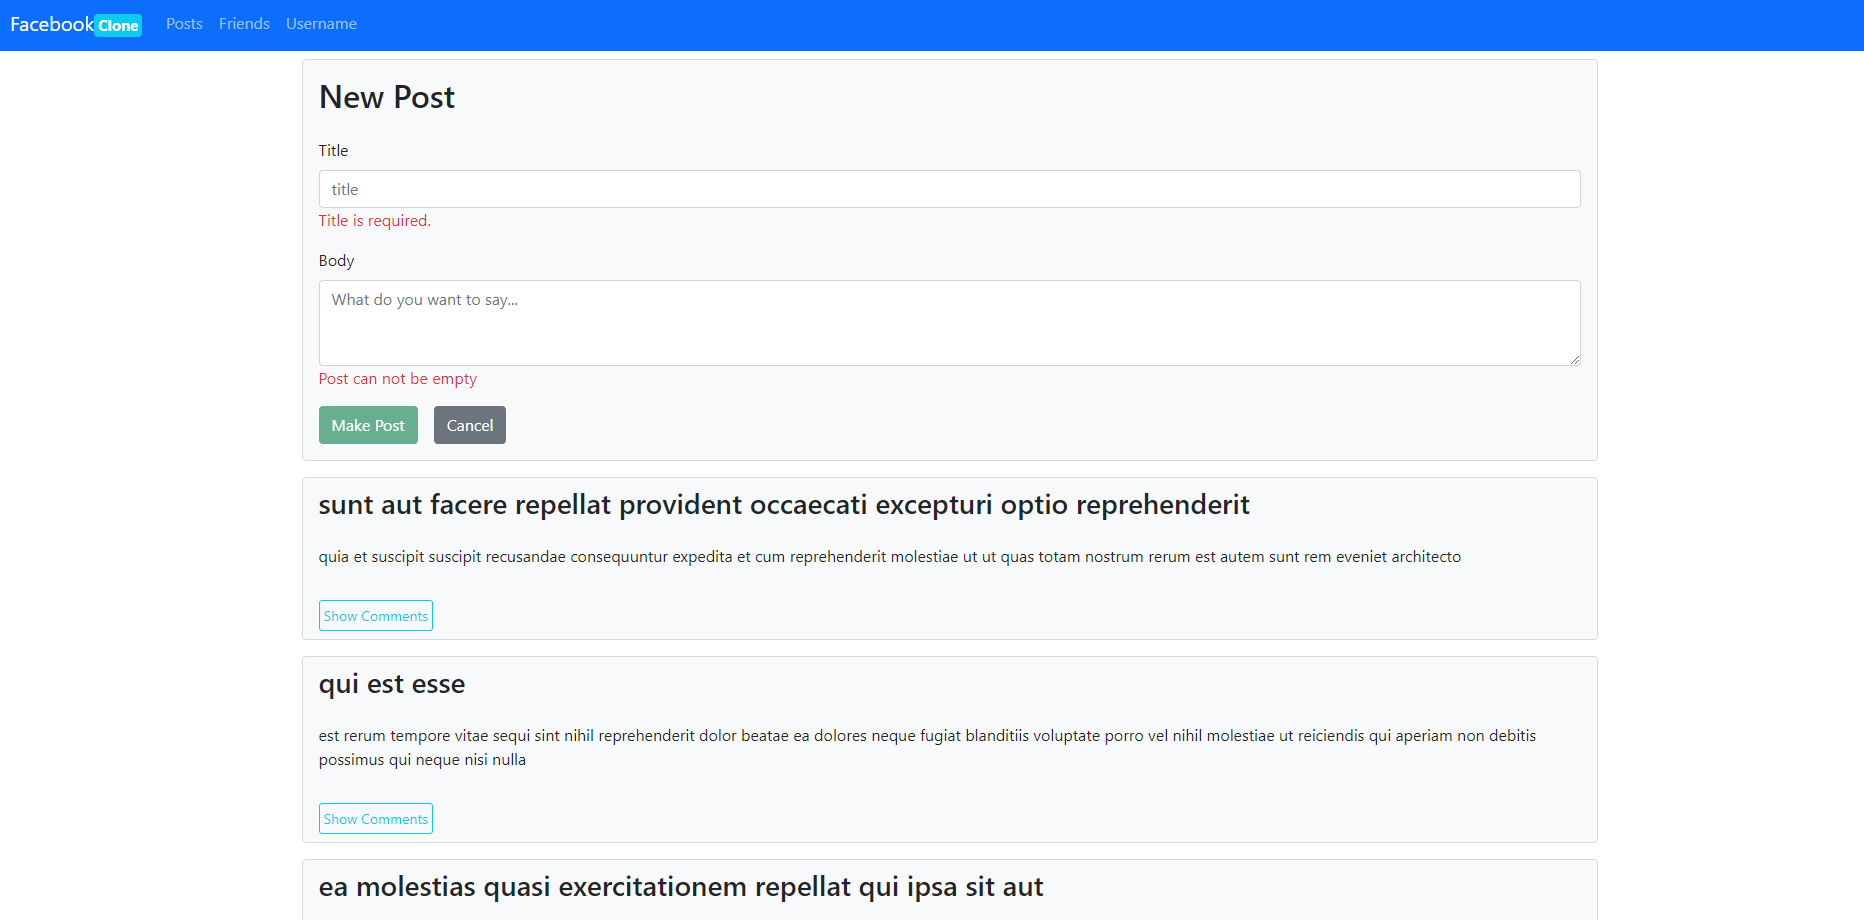
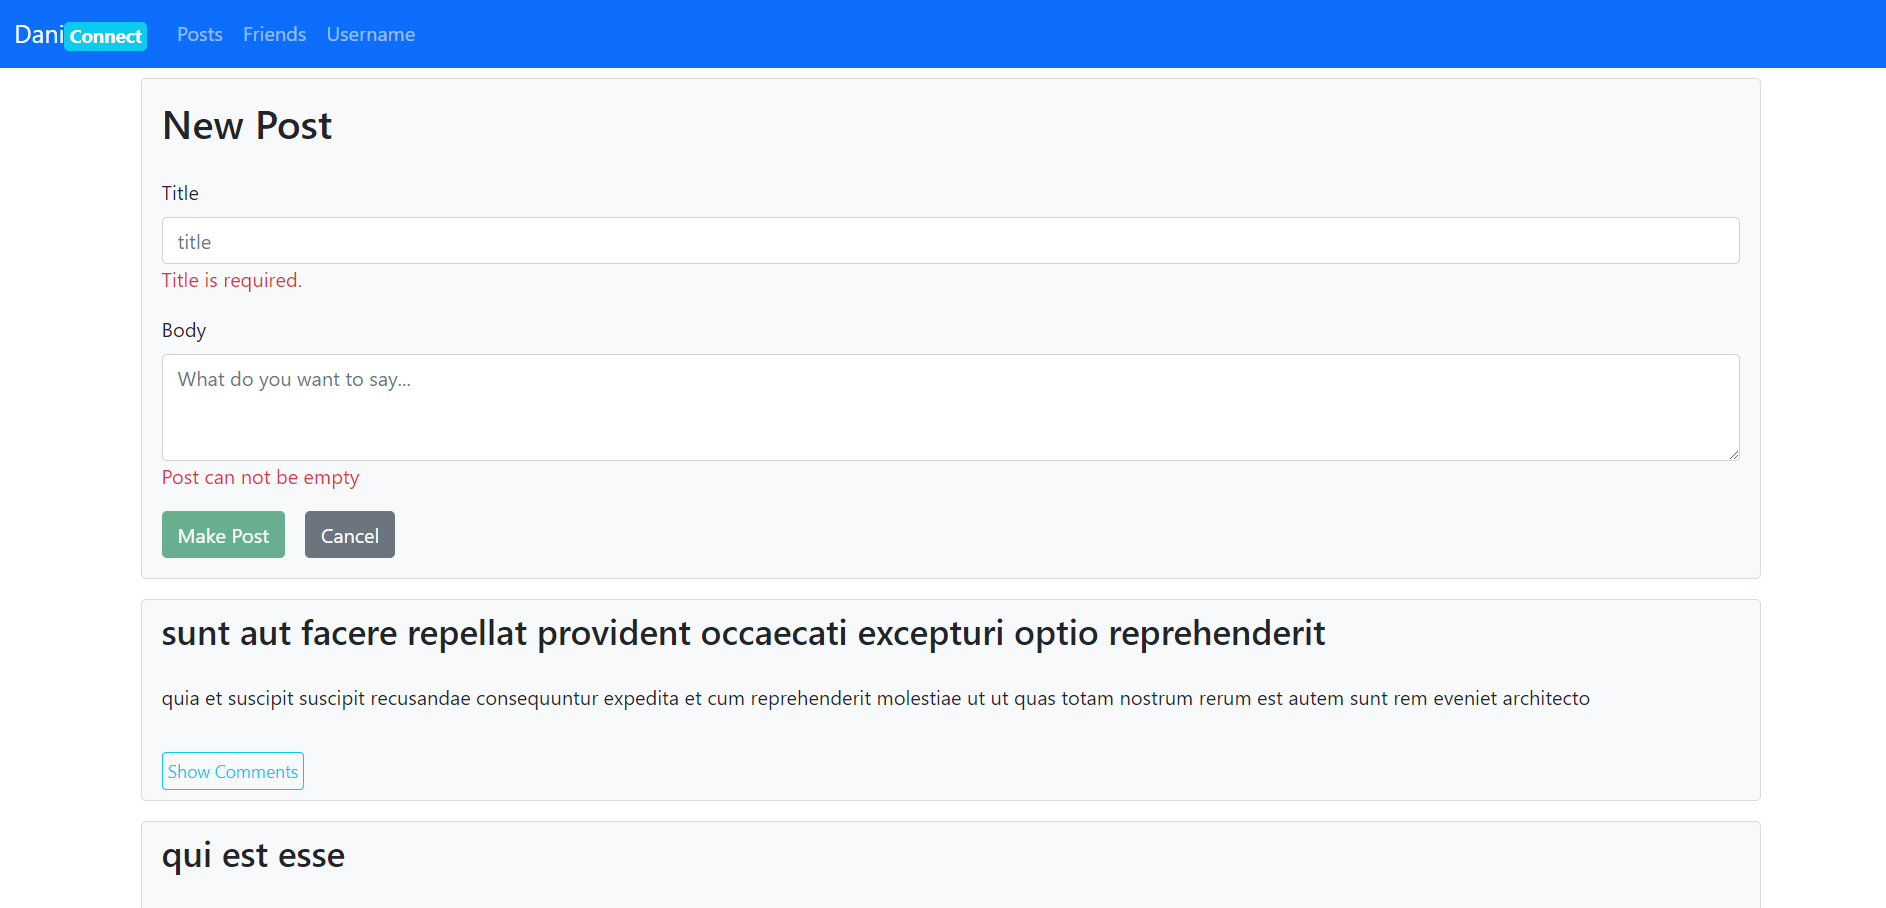
renaming

diff --git a/src/app/components/navbar/navbar.component.html b/src/app/components/navbar/navbar.component.html
@@ -1,6 +1,6 @@
 <nav class="navbar navbar-dark navbar-expand-lg bg-primary">
   <div class="container-fluid">
-    <a href="" class="navbar-brand">Facebook<span class="badge p-1 bg-info bg-secondary">Clone</span></a>
+    <a href="" class="navbar-brand">Dani<span class="badge p-1 bg-info bg-secondary">Connect</span></a>
 
     <button class="navbar-toggler" type="button" data-bs-toggle="collapse" data-bs-target="#navbarSupportedContent" aria-controls="navbarSupportedContent" aria-expanded="false" aria-label="Toggle navigation">
       <span class="navbar-toggler-icon"></span>

diff --git a/karma.conf.js b/karma.conf.js
@@ -16,7 +16,7 @@ module.exports = function (config) {
       clearContext: false // leave Jasmine Spec Runner output visible in browser
     },
     coverageIstanbulReporter: {
-      dir: require('path').join(__dirname, './coverage/facebook-clone'),
+      dir: require('path').join(__dirname, './coverage/dani-connnect'),
       reports: ['html', 'lcovonly', 'text-summary'],
       fixWebpackSourcePaths: true
     },

diff --git a/e2e/src/app.e2e-spec.ts b/e2e/src/app.e2e-spec.ts
@@ -10,7 +10,7 @@ describe('workspace-project App', () => {
 
   it('should display welcome message', () => {
     page.navigateTo();
-    expect(page.getTitleText()).toEqual('facebook-clone app is running!');
+    expect(page.getTitleText()).toEqual('dani-connect app is running!');
   });
 
   afterEach(async () => {

diff --git a/src/index.html b/src/index.html
@@ -2,7 +2,7 @@
 <html lang="en">
 <head>
   <meta charset="utf-8">
-  <title>FacebookClone</title>
+  <title>DaniConnect</title>
   <base href="/">
   <meta name="viewport" content="width=device-width, initial-scale=1">
   <link rel="icon" type="image/x-icon" href="favicon.ico">

diff --git a/src/app/app.component.ts b/src/app/app.component.ts
@@ -6,5 +6,5 @@ import { Component } from '@angular/core';
   styleUrls: ['./app.component.css']
 })
 export class AppComponent {
-  title = 'facebook-clone';
+  title = 'dani-connect';
 }

diff --git a/README.md b/README.md
@@ -8,7 +8,7 @@ You create new posts.
 Comment on existing posts.
 ![comments screenshot](src/assets/comments_screenshot.png)
 See your friends.
-![user screenshot](src/assets/user_screenshot.png)
+![users screenshot](src/assets/users_screenshot.png)
 
 
 
